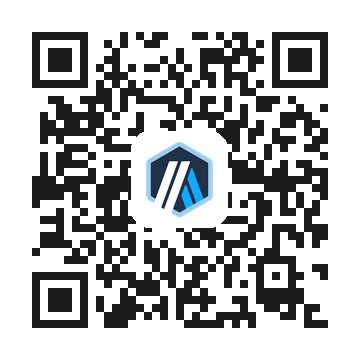
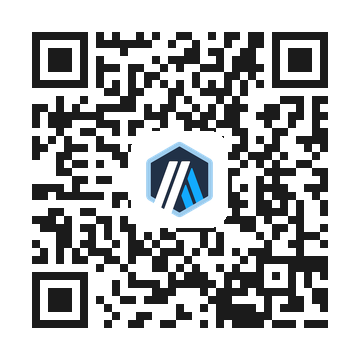
Arena: entry-fee QR now points to the new receiving address

Changed region(s): [[0.0917, 0.0917, 0.9167, 0.9167]]

diff --git a/arena/index.html b/arena/index.html
@@ -2,7 +2,7 @@
 <html lang="zh"><head><meta charset="UTF-8"><meta name="viewport" content="width=device-width,initial-scale=1,user-scalable=no"><title>竞技场 — CoinValue</title>
 <link rel="stylesheet" href="../style.css?v=20261008pe"><link rel="stylesheet" href="../nav-pe.css?v=20261024nav"><link rel="stylesheet" href="arena.css?v=20261101c">
 <script defer src="../i18n.js?v=20261031arena"></script>
-<script defer src="vendor/phaser.min.js"></script><script defer src="music.js?v=20261031m"></script><script defer src="battle.js?v=20261031m"></script><script defer src="game.js?v=20261101d"></script>
+<script defer src="vendor/phaser.min.js"></script><script defer src="music.js?v=20261031m"></script><script defer src="battle.js?v=20261031m"></script><script defer src="game.js?v=20261101e"></script>
 <script data-goatcounter="https://cryptomiao.goatcounter.com/count" async src="//gc.zgo.at/count.js"></script></head>
 <body data-page="arena"><div class="topbar"><a class="logo" href="../pe-list.html"><span class="dot"></span>CoinValue</a><nav class="topnav"><details class="nav-pe"><summary data-i18n="nav.pe">PE 监控</summary><div class="nav-pe-menu"><a href="../pe-list.html" data-i18n="nav.peAll">全部总览</a><a href="../hype-pe.html">HYPE PE</a><a href="../uni-pe.html">UNI PE</a><a href="../bnb-pe.html">BNB PE</a><a href="../aave-pe.html">AAVE PE</a></div></details>
 <details class="nav-pe nav-btc"><summary data-i18n="nav.btc">BTC 数据</summary><div class="nav-pe-menu"><a href="../btc-overview.html" data-i18n="nav.btcAll">全部总览</a><a href="../btc-mvrv.html" data-i18n="nav.btcZ">MVRV Z-Score</a><a href="../btc-drawdown.html" data-i18n="nav.btcDd">历史高点回撤</a><a href="../btc-dominance.html" data-i18n="nav.btcDom">市值占比</a><a href="../btc-mcap.html" data-i18n="nav.btcMc">市值与已实现市值</a></div></details>

diff --git a/arena/game.js b/arena/game.js
@@ -212,8 +212,8 @@
 
   // Entry fee (main-hall receptionist): tier n costs n USDC on Arbitrum One.
   // The QR (assets/pay/arb-usdc-qr.png, made by pay-gen/build_pay_qr.py) encodes PAY_ADDRESS only.
-  const PAY_ADDRESS = '0x5D9ac14a4b277b97806aB20F319796D37A9010d5';
-  const PAY_QR = 'assets/pay/arb-usdc-qr.png?v=20261101b';
+  const PAY_ADDRESS = '0xf589fe018faF04b663eEA702E59E8601c65e5354';
+  const PAY_QR = 'assets/pay/arb-usdc-qr.png?v=20261101e';
   const tierFee = n => n;
 
   async function copyText(s) {
